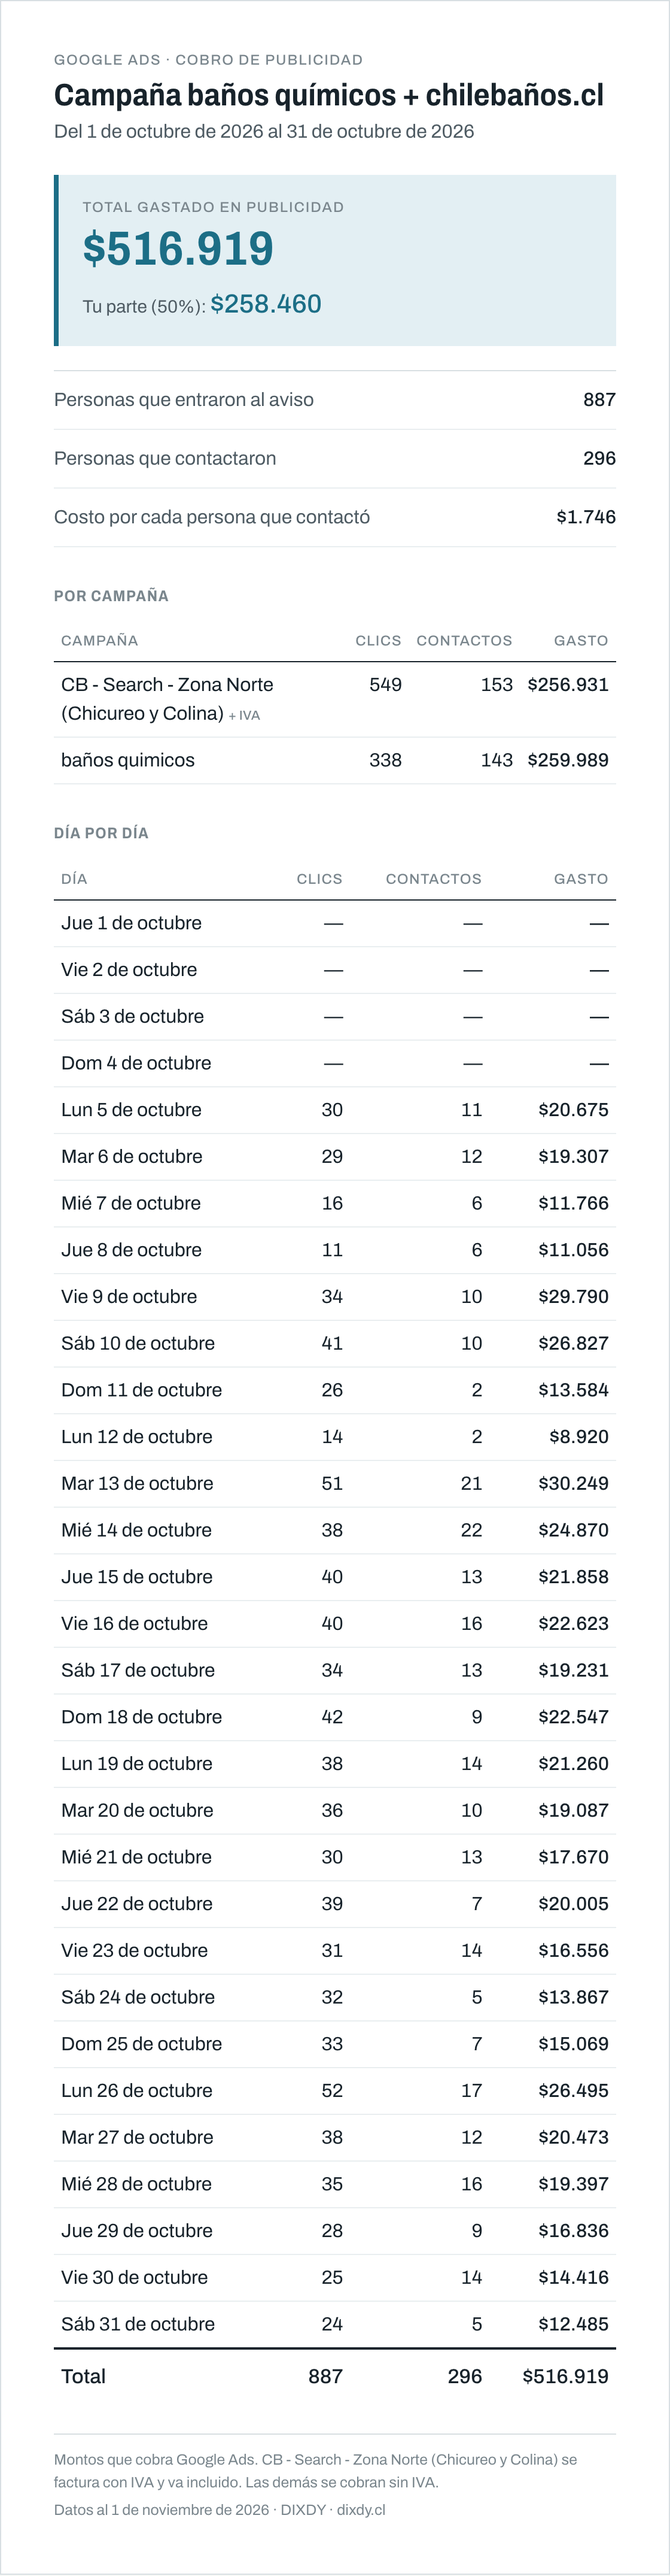
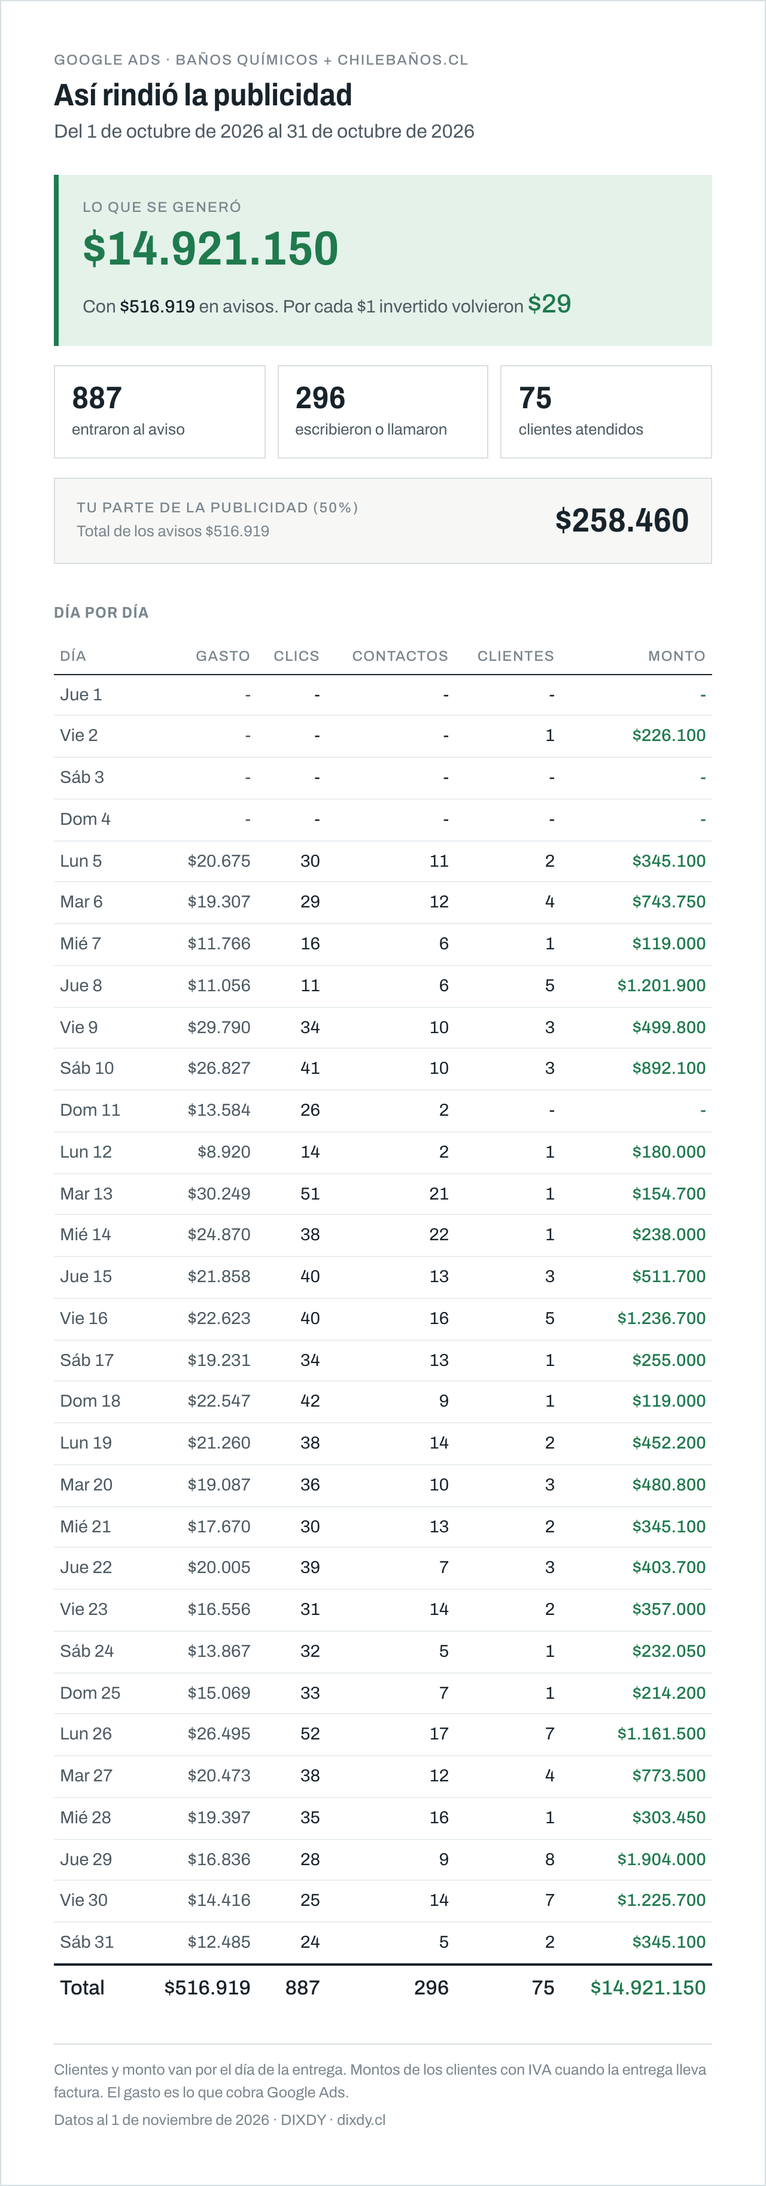
publicidad octubre: imagen resumen (lo ganado + tu parte + día por día)

diff --git a/resumen-repartidor/scripts/publicar_cobro_publicidad.py b/resumen-repartidor/scripts/publicar_cobro_publicidad.py
@@ -71,9 +71,11 @@ def listar() -> None:
               f"le toca ${f['monto']:,} ({float(f['fraccion']):.0%})  {est}".replace(",", "."))
 
 
-def publicar(carpeta: Path, fraccion: float, nota: str | None, id_forzado: str | None, dry: bool) -> None:
+def publicar(carpeta: Path, fraccion: float, nota: str | None, id_forzado: str | None, dry: bool,
+             imagen: str = "cobro.png") -> None:
     resumen_p = carpeta / "resumen.json"
-    png = carpeta / "cobro.png"
+    # (2026-11-01) --imagen resumen.png: la imagen que junta lo ganado + la parte + día por día
+    png = carpeta / imagen
     if not resumen_p.exists() or not png.exists():
         sys.exit(f"❌ La carpeta debe traer resumen.json y cobro.png: {carpeta}")
     r = json.loads(resumen_p.read_text(encoding="utf-8"))
@@ -154,6 +156,7 @@ def main() -> None:
     ap.add_argument("--fraccion", type=float, default=0.5, help="parte que paga el repartidor (0.5 = la mitad)")
     ap.add_argument("--nota", default=None)
     ap.add_argument("--id", default=None, help="id de la fila (por defecto, el nombre de la carpeta)")
+    ap.add_argument("--imagen", default="cobro.png", help="qué PNG de la rendición mostrar (cobro.png o resumen.png)")
     ap.add_argument("--dry", action="store_true")
     ap.add_argument("--listar", action="store_true")
     a = ap.parse_args()
@@ -164,7 +167,7 @@ def main() -> None:
         ap.error("falta --rendicion (o usa --listar)")
     if not (0 < a.fraccion <= 1):
         ap.error("--fraccion debe estar entre 0 y 1")
-    publicar(a.rendicion.resolve(), a.fraccion, a.nota, a.id, a.dry)
+    publicar(a.rendicion.resolve(), a.fraccion, a.nota, a.id, a.dry, a.imagen)
 
 
 if __name__ == "__main__":
